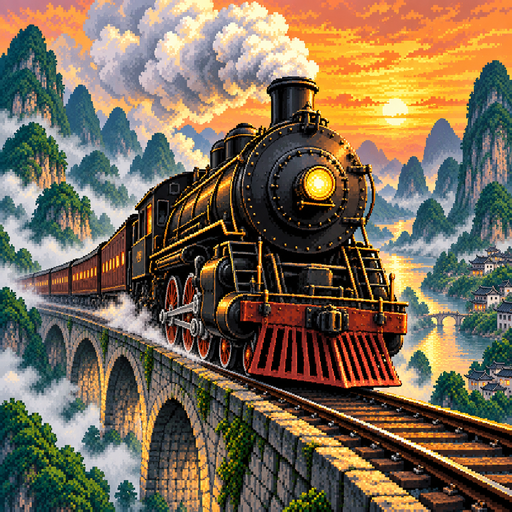
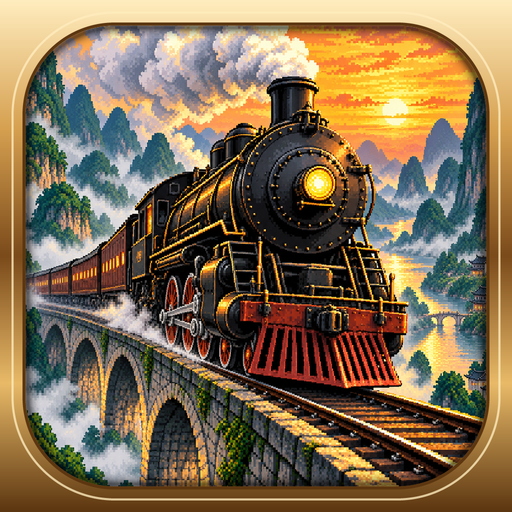
v0.6.2 主畫面圖示加銅金色邊框

Changed region(s): [[0.0, 0.0, 1.0, 1.0]]

diff --git a/index.html b/index.html
@@ -10,7 +10,7 @@
 <link rel="apple-touch-icon" href="icons/icon1-180.png">
 <link rel="manifest" href="icons/manifest1.webmanifest">
 <meta name="apple-mobile-web-app-title" content="鵝城快打">
-<script src="js/homeicon.js?v=45" data-key="bf-homeicon" data-names="九筒面具,張牧之,火車,子彈飛" data-accent="#b8862a" data-bg="#140a04" data-font="'Cubic','PingFang TC',sans-serif"></script>
+<script src="js/homeicon.js?v=46" data-key="bf-homeicon" data-names="九筒面具,張牧之,火車,子彈飛" data-accent="#b8862a" data-bg="#140a04" data-font="'Cubic','PingFang TC',sans-serif"></script>
 <style>
   @font-face { font-family: 'Cubic'; src: url('fonts/Cubic_11.woff2') format('woff2'); font-display: block; }
   html, body { margin: 0; height: 100%; background: #000; overflow: hidden; touch-action: none;
@@ -108,17 +108,17 @@
   <div class="btn b-start" data-b="start">START</div>
 </div>
 
-<script src="js/sprite_data.js?v=45"></script>
-<script src="js/prop_data.js?v=45"></script>
-<script src="js/art_data.js?v=45"></script>
-<script src="js/core.js?v=45"></script>
-<script src="js/audio.js?v=45"></script>
-<script src="js/sprites.js?v=45"></script>
-<script src="js/data.js?v=45"></script>
-<script src="js/game.js?v=45"></script>
-<script src="js/scenes.js?v=45"></script>
-<script src="js/ride.js?v=45"></script>
-<script src="js/bonus.js?v=45"></script>
-<script src="js/gate.js?v=45"></script>
+<script src="js/sprite_data.js?v=46"></script>
+<script src="js/prop_data.js?v=46"></script>
+<script src="js/art_data.js?v=46"></script>
+<script src="js/core.js?v=46"></script>
+<script src="js/audio.js?v=46"></script>
+<script src="js/sprites.js?v=46"></script>
+<script src="js/data.js?v=46"></script>
+<script src="js/game.js?v=46"></script>
+<script src="js/scenes.js?v=46"></script>
+<script src="js/ride.js?v=46"></script>
+<script src="js/bonus.js?v=46"></script>
+<script src="js/gate.js?v=46"></script>
 </body>
 </html>

diff --git a/js/data.js b/js/data.js
@@ -2,8 +2,9 @@
 'use strict';
 
 // ---------- 版本與更新紀錄（改版時一起更新；標題畫面與桌墊都看得到） ----------
-const VERSION = 'v0.6.1';
+const VERSION = 'v0.6.2';
 const CHANGELOG = [
+  ['v0.6.2', '主畫面圖示加上銅金色邊框'],
   ['v0.6.1', '手機主畫面圖示可以挑：四款（九筒面具、張牧之、火車、子彈飛），按桌墊上方的「圖示」選'],
   ['v0.6', '台詞依章節順序重排：第一關改成 冤鼓 → 武舉人 → 唱機穆扎 → 涼粉胡萬；後面章節不再借用前面的台詞',
     '經典段落補上關鍵句：站著把錢掙了、穆扎與東洋西洋南洋北洋、大哥你是瞭解我的、照片「那時候我還很瘦」',
